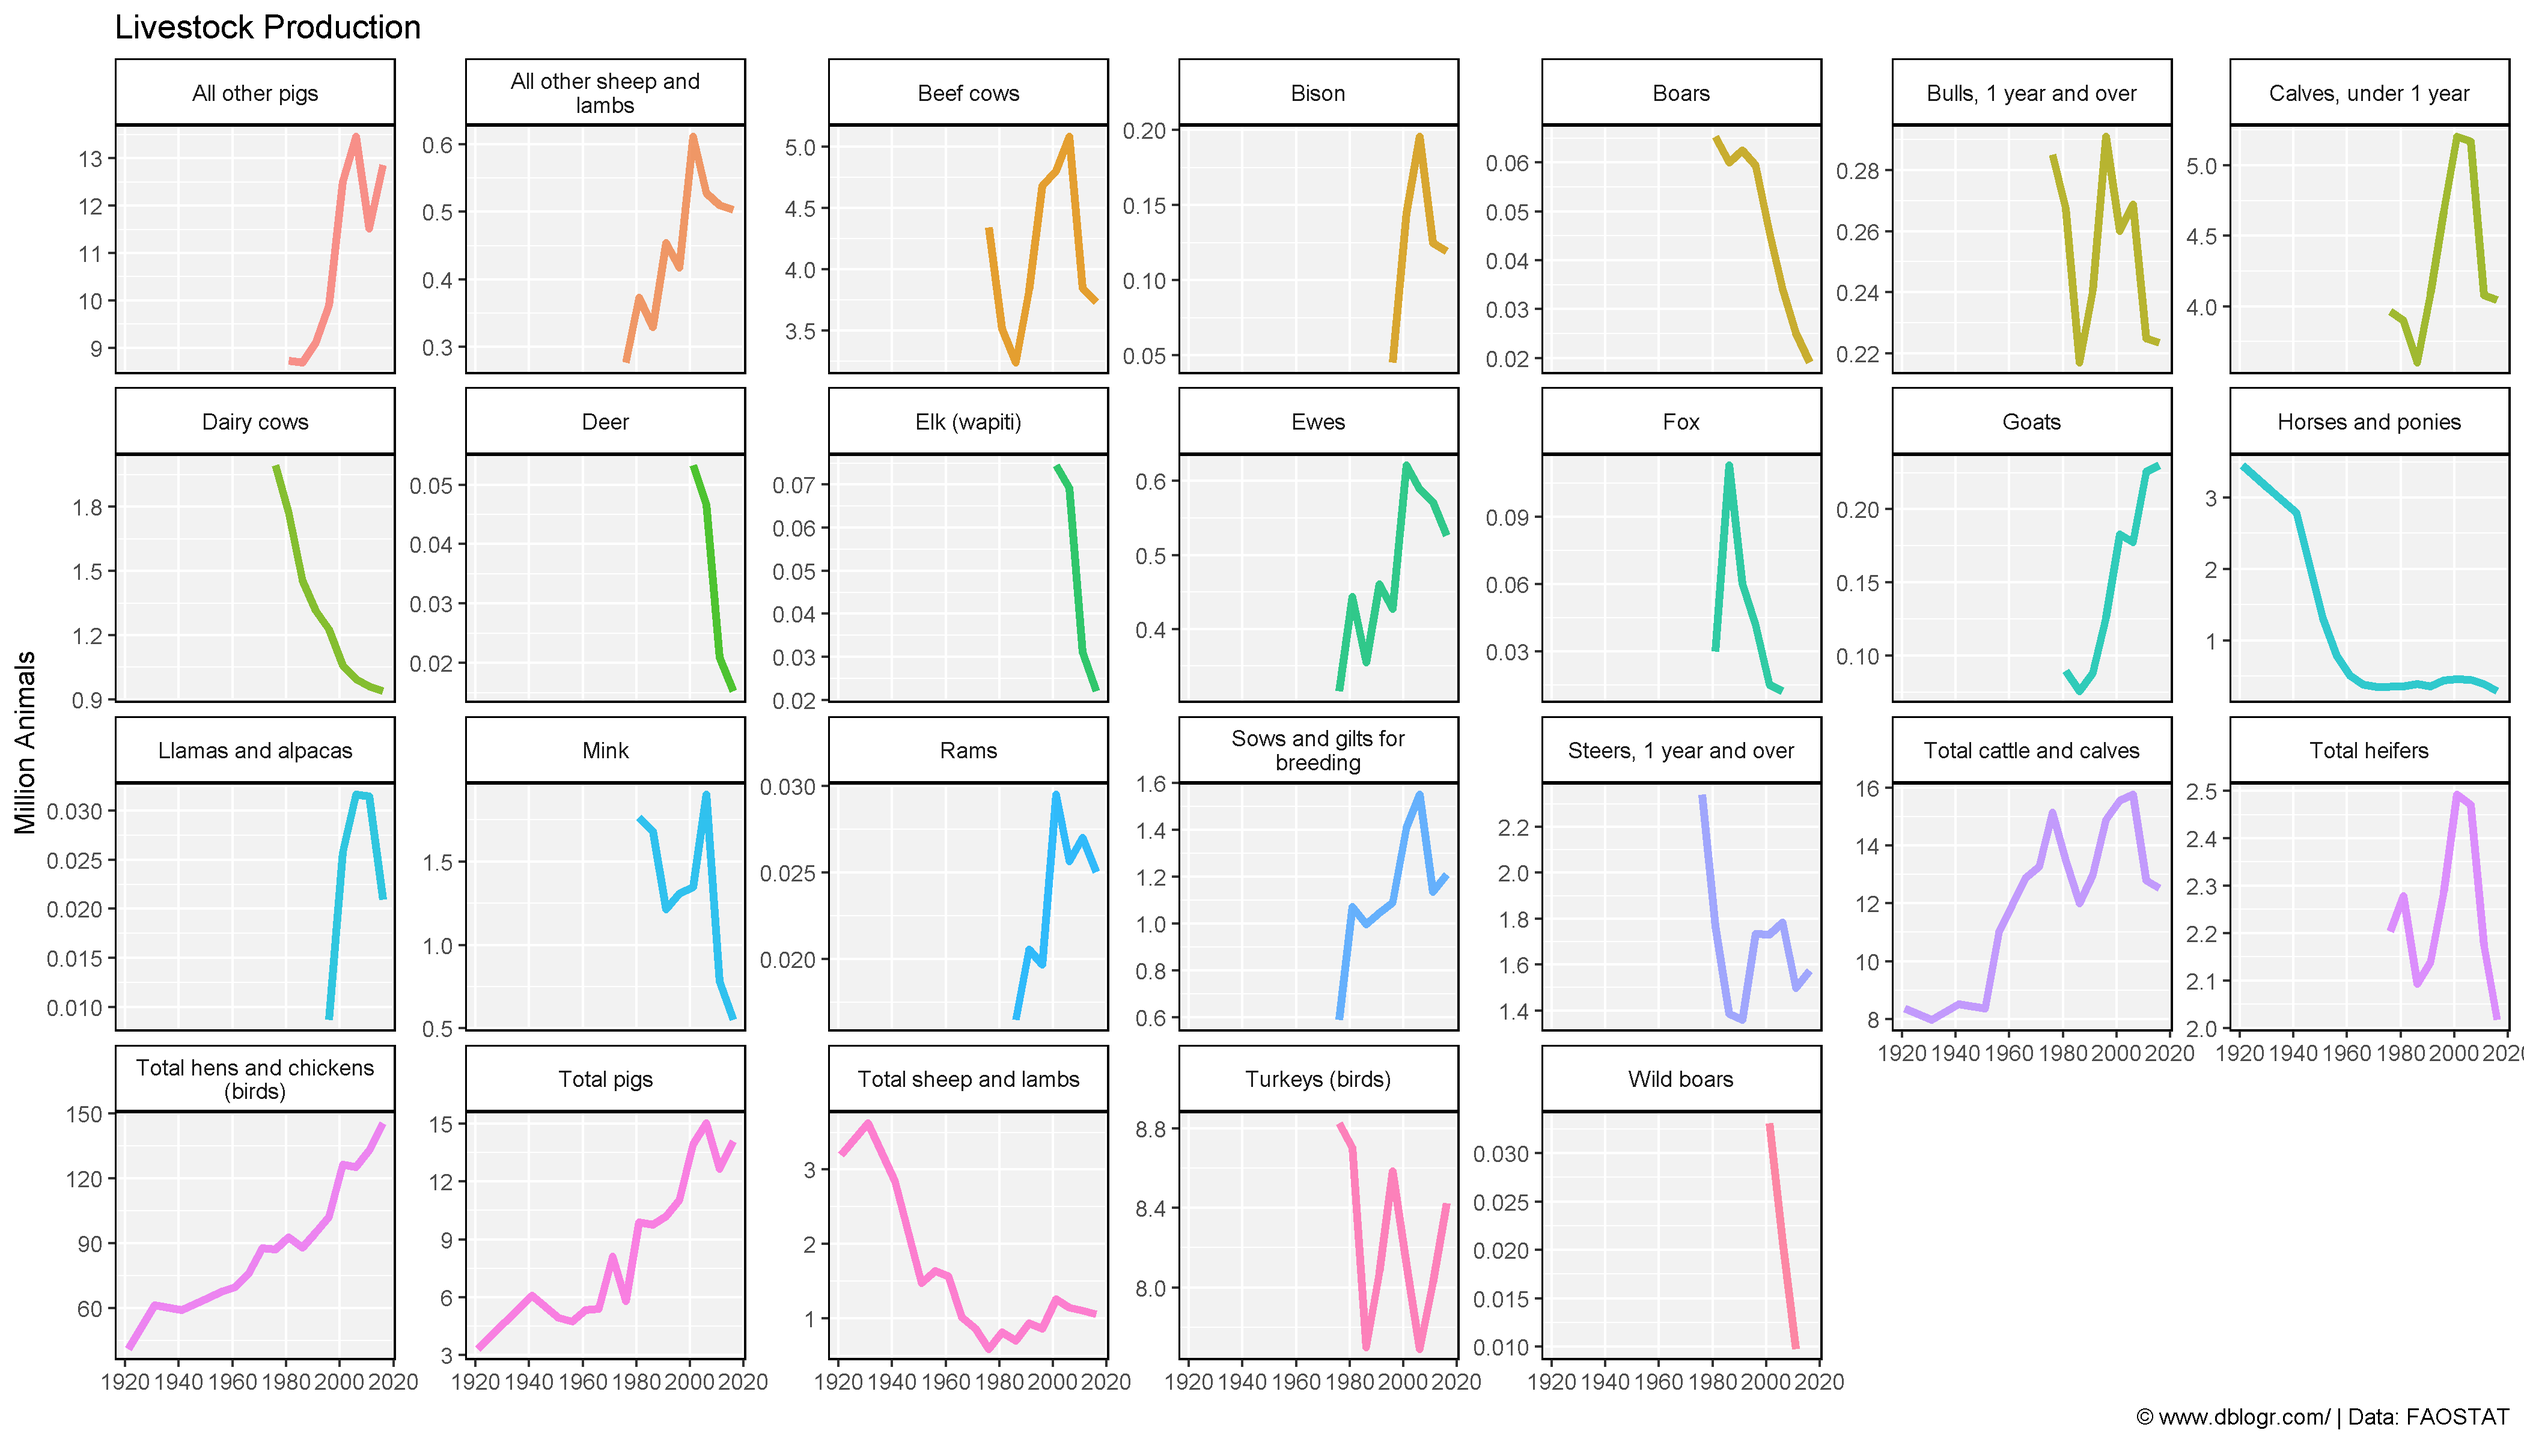
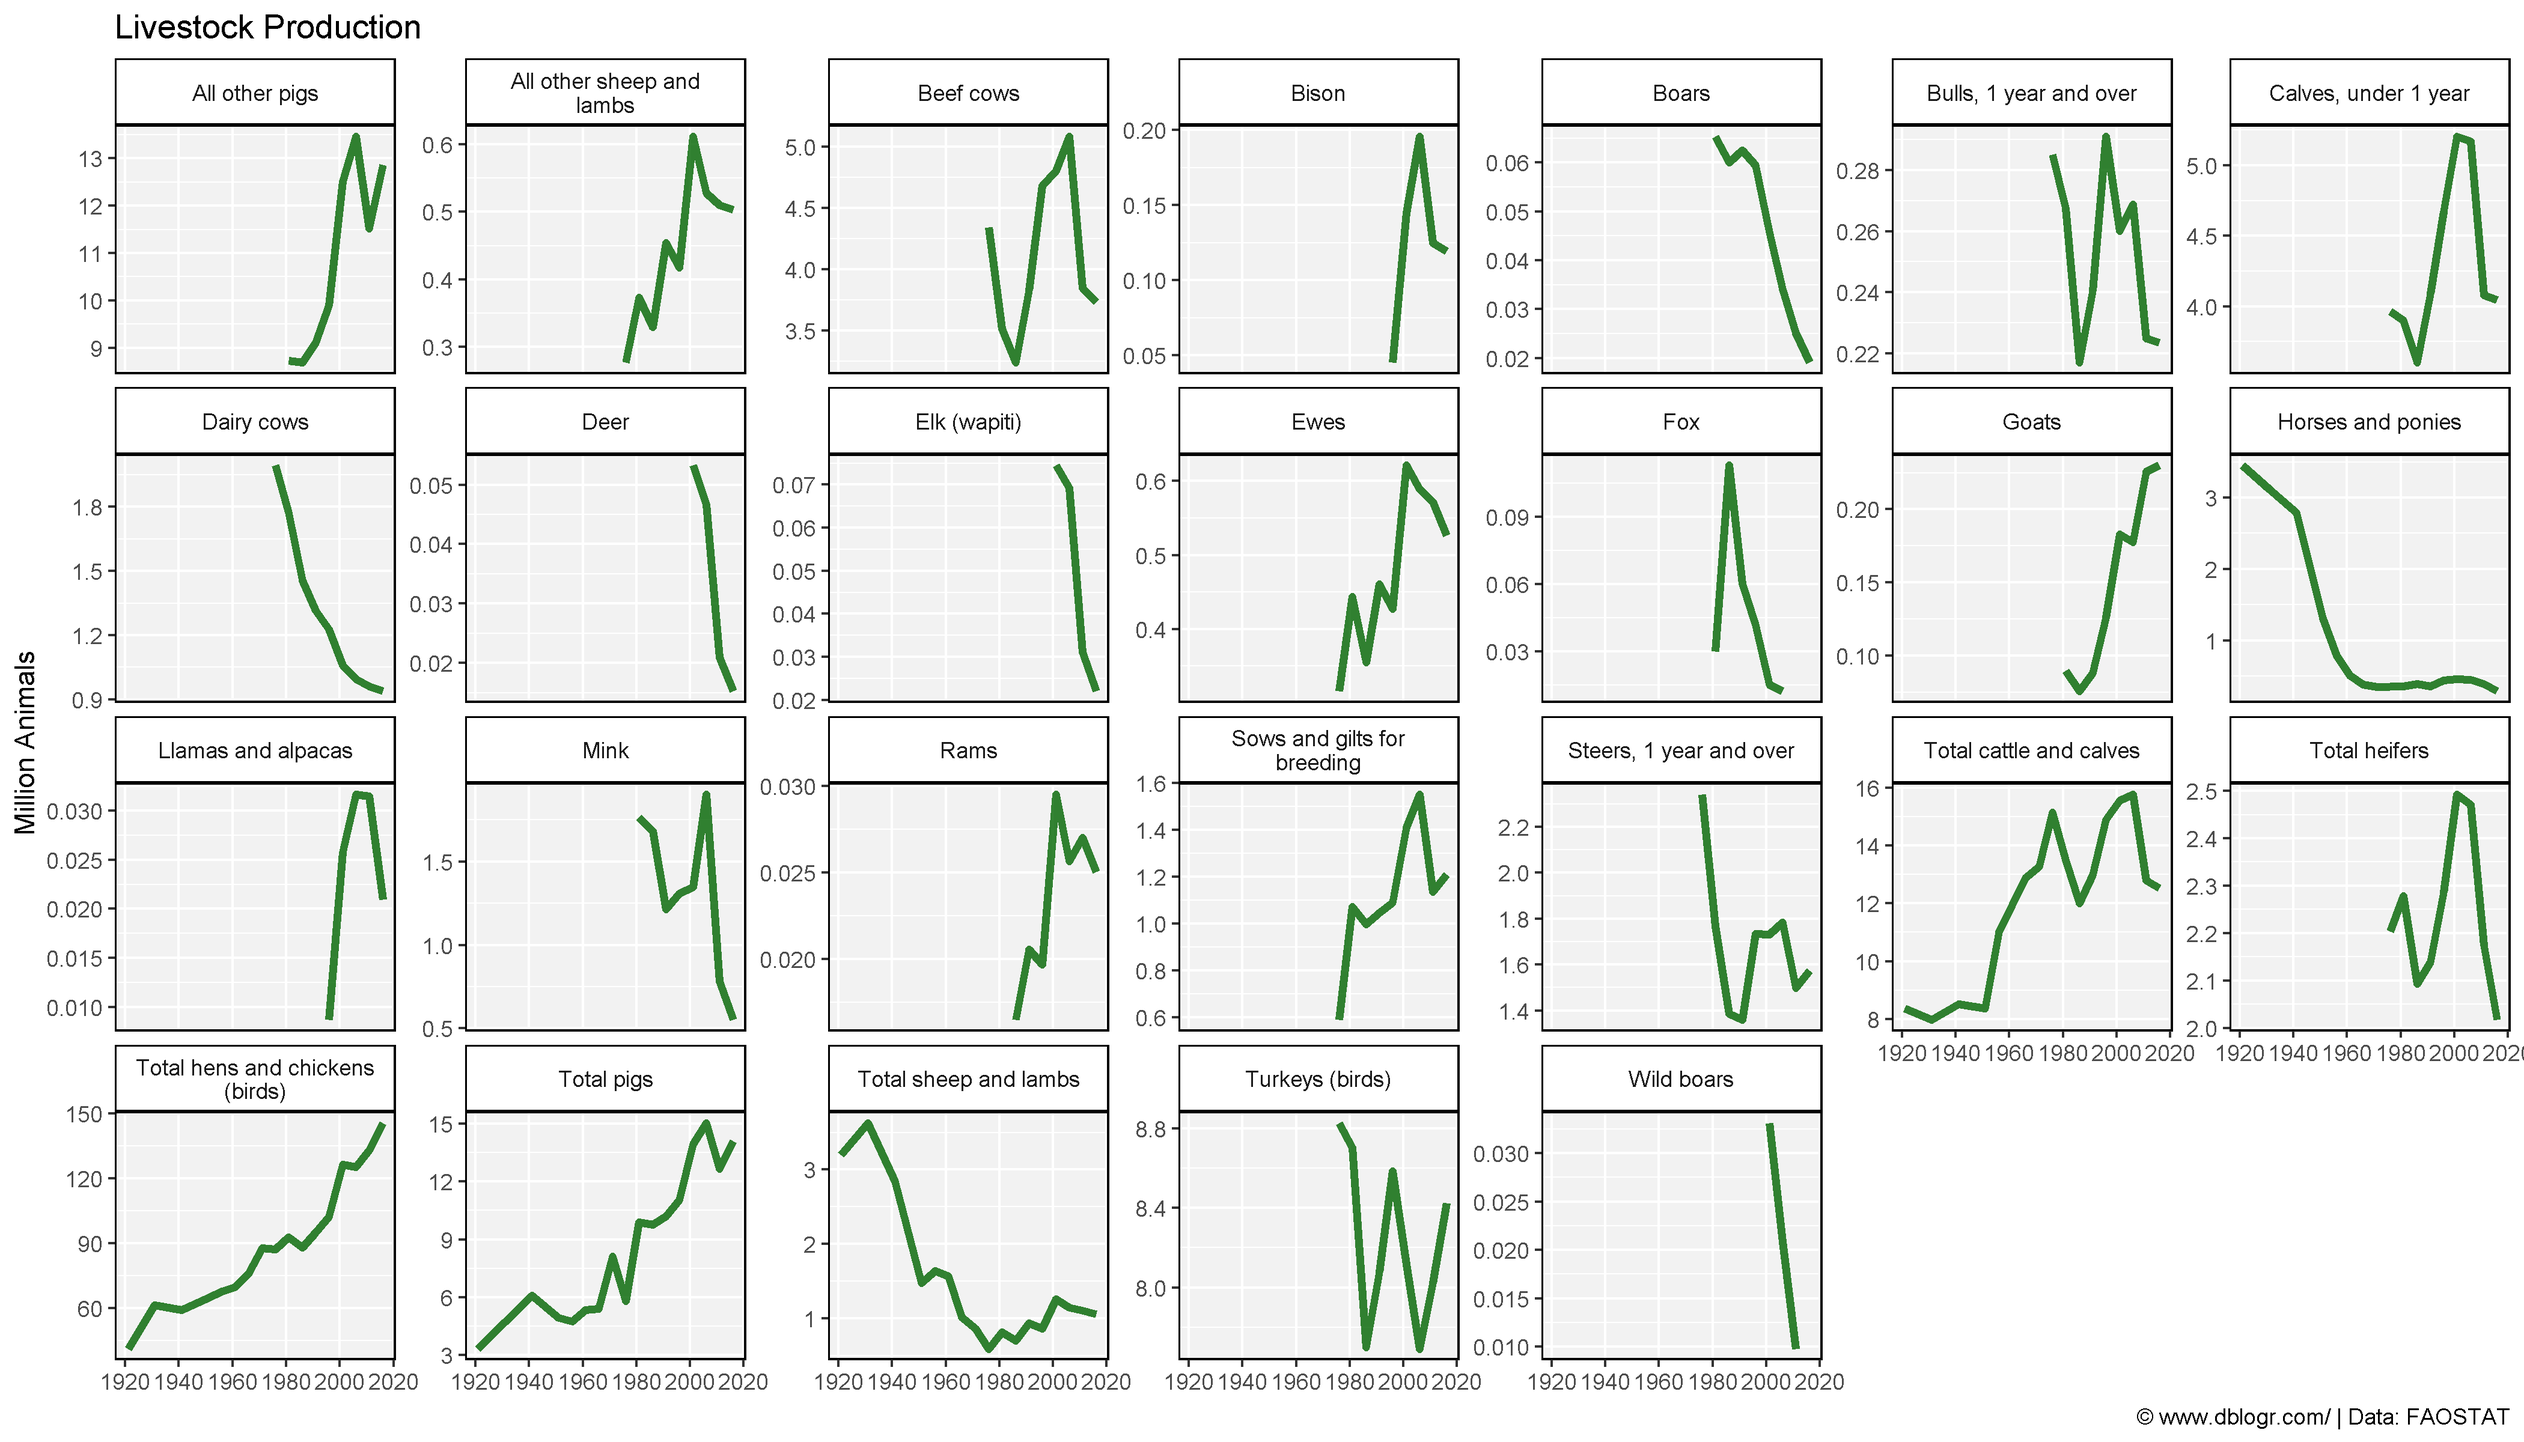
edit

diff --git a/content/agdata/livestock_canada/index.html b/content/agdata/livestock_canada/index.html
@@ -2,7 +2,7 @@
 title: "Livestock Production in Canada"
 subtitle: "Graphs of livestock production using STATCAN data"
 summary:  "Graphs of livestock production using STATCAN data"
-date: "2021-06-10"
+date: "2021-06-14"
 author: "Derek Michael Wright <wrightmderek@gmail.com> [www.dblogr.com/](https://dblogr.com/agdata/livestock_canada/)"
 tags: [ "agData", "Livestock" ]
 weight: 4
@@ -37,13 +37,13 @@ library(agData) # Loads: tidyverse, ggpubr, ggbeeswarm, ggrepel</code></pre>
 xx &lt;- agData_STATCAN_Livestock %&gt;% 
   filter(Area == &quot;Canada&quot;, Measurement == &quot;Number of animals&quot;)
 # Plot Data
-mp &lt;- ggplot(xx, aes(x = Year, y = Value / 1000000, color = Animal)) + 
-  geom_line(size = 1.5, alpha = 0.8) +
+mp &lt;- ggplot(xx, aes(x = Year, y = Value / 1000000)) + 
+  geom_line(size = 1.5, alpha = 0.8, color = &quot;darkgreen&quot;) +
   facet_wrap(Animal ~ ., scales = &quot;free_y&quot;, ncol = 7,
              labeller = label_wrap_gen(width = 25)) +
   scale_x_continuous(breaks = seq(1920, 2020, 20), minor_breaks = NULL) +
   theme_agData(legend.position = &quot;none&quot;) +
-  labs(title = &quot;Livestock Production &quot;, y = &quot;Million Animals&quot;, x = NULL,
+  labs(title = &quot;Livestock Production&quot;, y = &quot;Million Animals&quot;, x = NULL,
        caption = &quot;\xa9 www.dblogr.com/ | Data: FAOSTAT&quot;)
 ggsave(&quot;livestock_canada_01.png&quot;, mp, width = 14, height = 8)</code></pre>
 <p><img src="livestock_canada_01.png" /></p>
@@ -64,7 +64,8 @@ mp &lt;- ggplot(xx, aes(x = Year, y = Value / 1000000, color = Animal)) +
   geom_line(size = 2, alpha = 0.8) + 
   scale_color_manual(name = NULL, values = colors) +
   theme_agData(legend.position = &quot;bottom&quot;) +
-  labs(y = &quot;Million Animals&quot;, x = NULL, title = &quot;Global Meadows and Pastures&quot;,
+  labs(title = &quot;Livestock Production&quot;,
+       y = &quot;Million Animals&quot;, x = NULL, 
        caption = &quot;\xa9 www.dblogr.com/ | Data: FAOSTAT&quot;)
 ggsave(&quot;livestock_canada_02.png&quot;, mp, width = 7, height = 4)</code></pre>
 <p><img src="livestock_canada_02.png" /></p>
@@ -84,7 +85,8 @@ mp &lt;- ggplot(xx, aes(x = Year, y = Value / 1000000, color = Animal)) +
   scale_color_manual(values = colors) +
   theme_agData(legend.position = &quot;bottom&quot;,
                axis.text.x = element_text(angle = 45, hjust = 1)) +
-  labs(y = &quot;Million Animals&quot;, x = NULL, title = &quot;Global Meadows and Pastures&quot;,
+  labs(title = &quot;Livestock Production&quot;,
+       y = &quot;Million Animals&quot;, x = NULL, 
        caption = &quot;\xa9 www.dblogr.com/ | Data: FAOSTAT&quot;)
 ggsave(&quot;livestock_canada_03.png&quot;, mp, width = 12, height = 6)</code></pre>
 <p><img src="livestock_canada_03.png" /></p>

diff --git a/content/dblogr/canada_suicide/index.html b/content/dblogr/canada_suicide/index.html
@@ -2,7 +2,7 @@
 title: "Suicide Rates in Canada"
 subtitle: ""
 summary:  ""
-date: "2021-06-10"
+date: "2021-06-14"
 author: "Derek Michael Wright <wrightmderek@gmail.com> [www.dblogr.com/](https://dblogr.com/dblogr/canada_suicide/)"
 tags: [ "dblogr", "Economics", "Demographics" ]
 weight: 5
